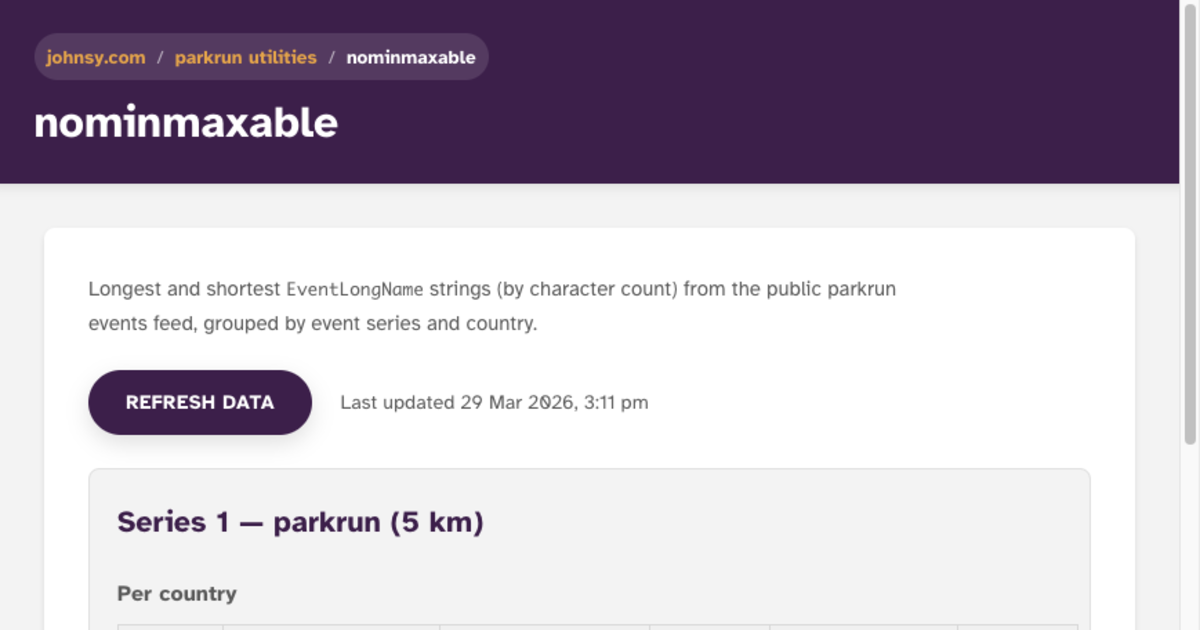
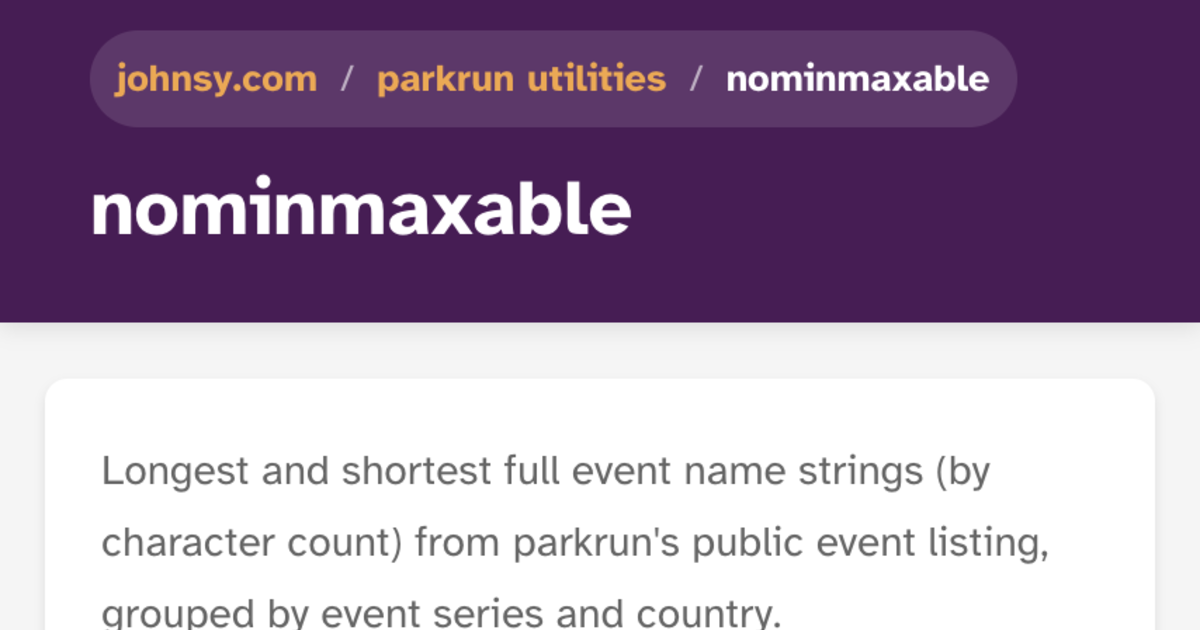
docs: refresh social preview PNG for current copy
Capture from preview build (intro + header), letterbox to 1200×630 for OG
tags. README notes how to regenerate after copy changes.

diff --git a/README.md b/README.md
@@ -4,7 +4,7 @@ Small static site that reads a public JSON listing of parkrun events, caches it 
 
 Deployed at [johnsy.com/nominmaxable](https://www.johnsy.com/nominmaxable/).
 
-**SEO and sharing:** [`src/index.html`](./src/index.html) includes canonical URL, keyword meta, **Open Graph** and **Twitter Card** tags, plus JSON-LD for a **WebApplication** and **BreadcrumbList**. The social preview image lives at [`src/public/nominmaxable-social-preview.png`](./src/public/nominmaxable-social-preview.png) (1200×630); Vite copies `src/public/` into the build root so it is served as `/nominmaxable/nominmaxable-social-preview.png` on the live site.
+**SEO and sharing:** [`src/index.html`](./src/index.html) includes canonical URL, keyword meta, **Open Graph** and **Twitter Card** tags, plus JSON-LD for a **WebApplication** and **BreadcrumbList**. The social preview image lives at [`src/public/nominmaxable-social-preview.png`](./src/public/nominmaxable-social-preview.png) (1200×630); Vite copies `src/public/` into the build root so it is served as `/nominmaxable/nominmaxable-social-preview.png` on the live site. When on-screen copy changes, replace that PNG with a fresh viewport capture from `pnpm build` then `pnpm preview` (open `/nominmaxable/`, scroll to top); if the capture is not exactly 1200×630, letterbox to that size (for example `magick in.png -resize 1200x -background '#f5f5f5' -gravity center -extent 1200x630 out.png`).
 
 The **header** and **footer** match [Eventuate](https://www.johnsy.com/eventuate/) (full-width aubergine bars, breadcrumb pill, centred footer links in apricot). **Atkinson Hyperlegible** is loaded from the same **johnsy.com** font assets as Eventuate. The main block uses Eventuate’s **white card** (`#page` / `#content`) pattern for the interactive area and tables. On narrow viewports, wide tables sit in **horizontally scrollable** regions (keyboard-focusable), with **larger sort-button tap targets**, **16px table text**, and **wrapped** long names so cells stay readable.
 
